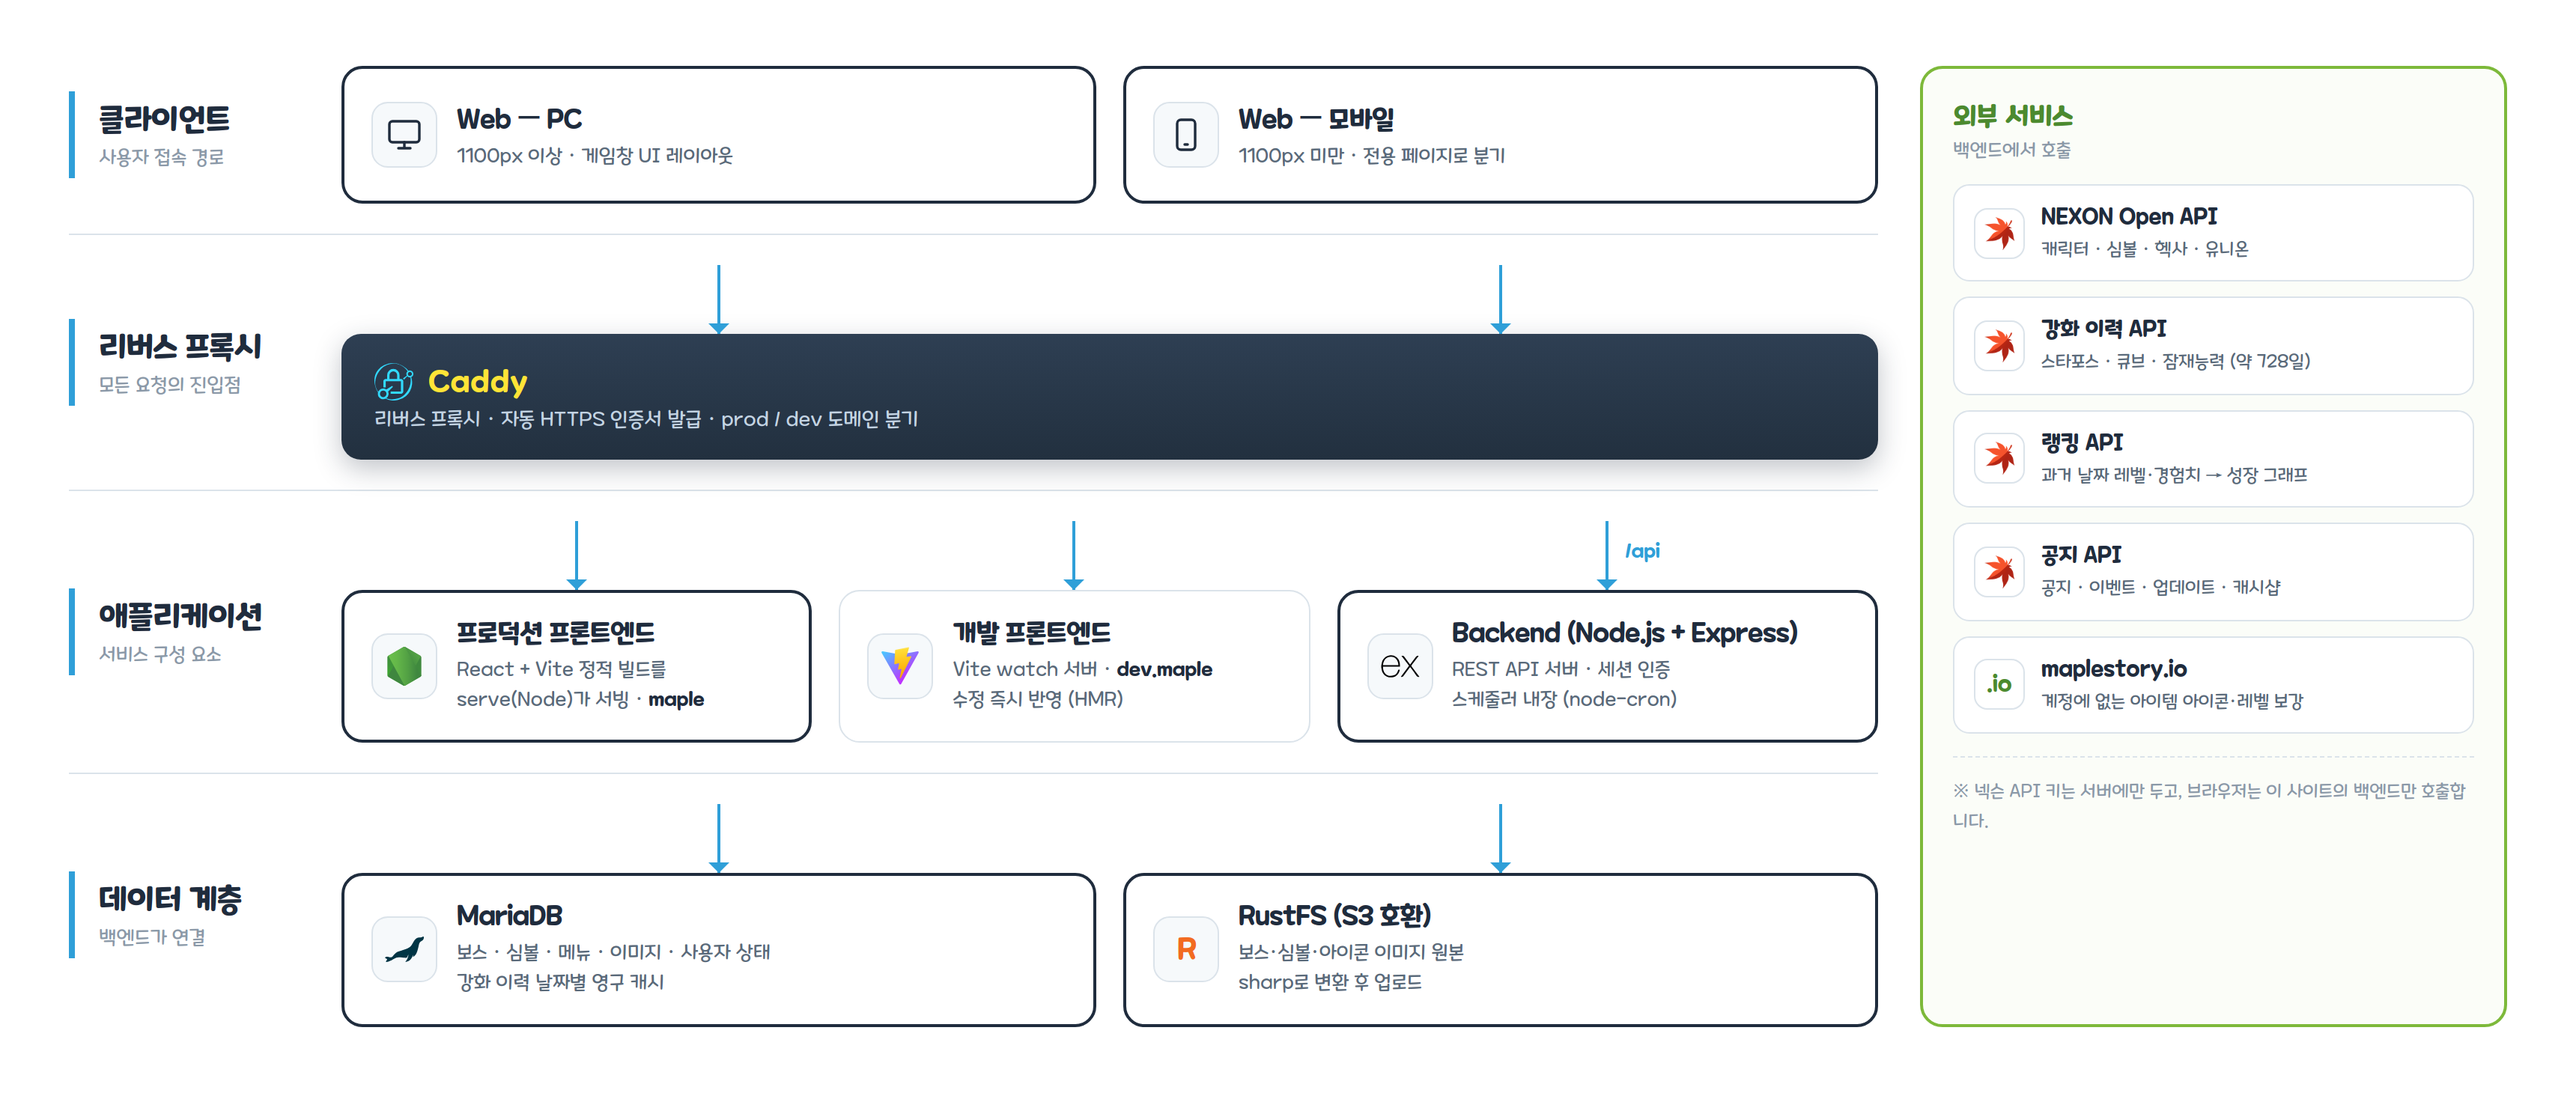
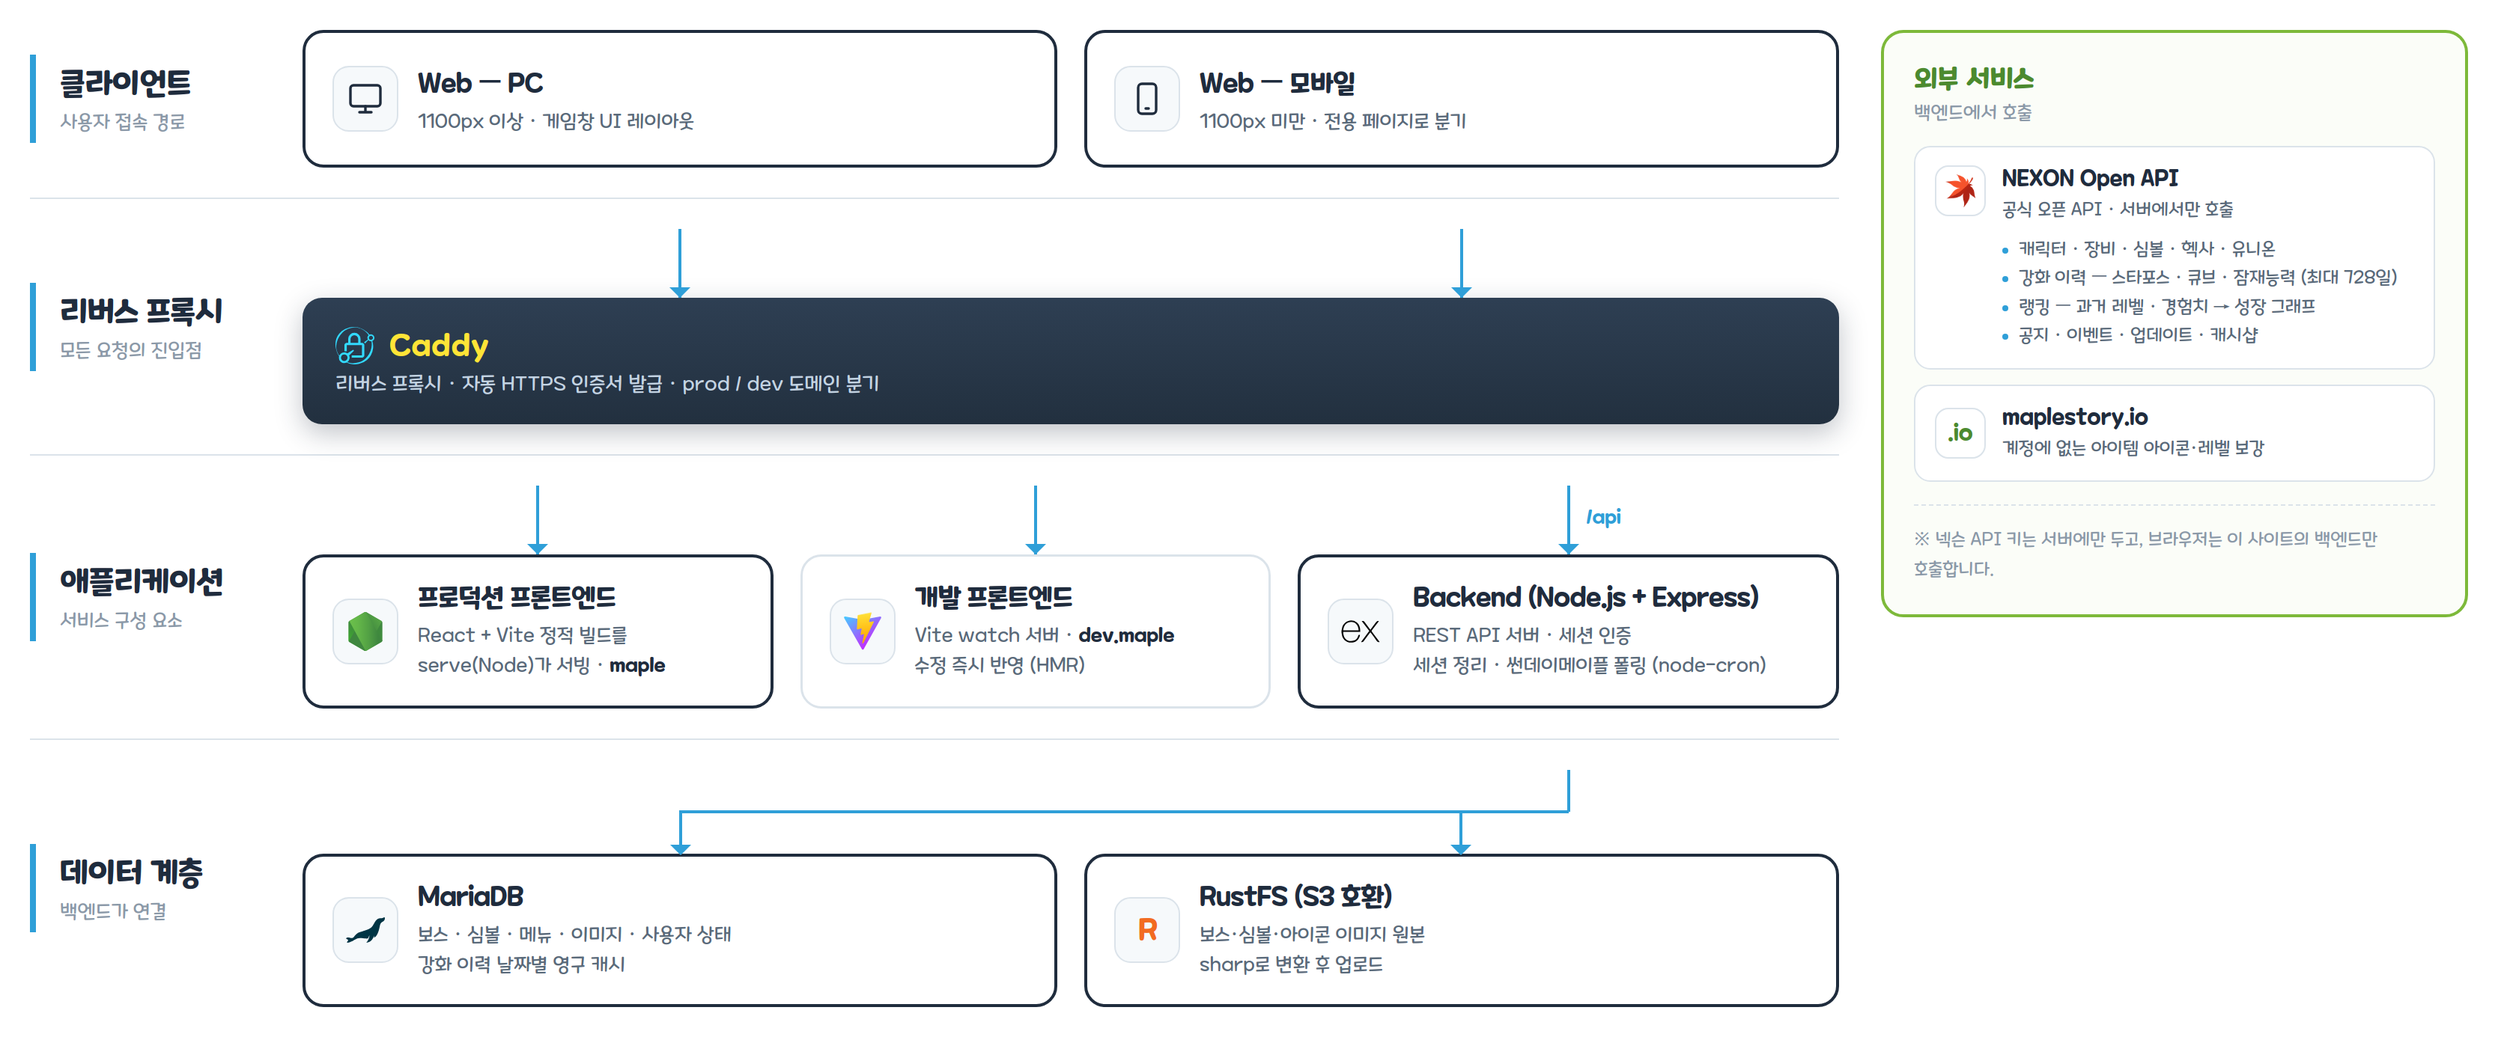
docs: 시스템 구조도 수정 — 잘못된 연결선·중복 API 정리
- 데이터 계층 화살표가 프론트엔드 열에서 내려와 잘못된 연결로 보이던 문제
  → 백엔드에서 분기하는 버스 형태로 교체 (실제 연결과 일치)
- 강화이력·랭킹·공지는 모두 NEXON Open API의 엔드포인트인데 별개 서비스처럼
  4개 박스로 나열되던 것 → 1개 박스에 엔드포인트 목록으로 통합
- 백엔드 설명을 실제 스케줄러 작업(세션 정리·썬데이메이플 폴링)으로 구체화
- 한국어 어절 단위 줄바꿈(word-break:keep-all) — '호출합/니다' 깨짐 해결
- 외부 서비스 패널이 억지로 늘어나 하단이 비던 문제 → 내용 높이에 맞춤

Claude-Session: https://claude.ai/code/session_011K1GDZufi9XzbNZSQFJ7js

diff --git a/docs/images/architecture.html b/docs/images/architecture.html
@@ -26,7 +26,7 @@ body{
 }
 
 /* ── 본체 + 외부 서비스 2단 ── */
-.wrap{display:flex;gap:28px;align-items:stretch}
+.wrap{display:flex;gap:28px;align-items:flex-start}
 .main{flex:1;min-width:0}
 .side{width:392px;flex:none}
 
@@ -46,7 +46,7 @@ body{
 .ic img{width:26px;height:26px;object-fit:contain}
 .ic .mark{font-size:20px;font-weight:700;letter-spacing:-1px}
 .n{font-size:17.5px;font-weight:700;letter-spacing:-.3px}
-.d{font-size:13px;color:var(--muted);margin-top:4px;line-height:1.55}
+.d{font-size:13px;color:var(--muted);margin-top:4px;line-height:1.55;word-break:keep-all}
 .d b{color:var(--ink);font-weight:700}
 
 /* ── 화살표 (아래 줄과 같은 그리드에 얹어 열을 맞춘다) ── */
@@ -63,19 +63,33 @@ body{
 .proxy .pn{color:var(--yellow);font-size:20px;font-weight:700;letter-spacing:.6px}
 .proxy .pd{color:#c3d3e2;font-size:13.5px;margin-top:5px}
 
+/* ── 데이터 계층 버스: 백엔드 열(82.4%)에서 내려와 두 저장소로 분기 ── */
+.bus{position:relative;height:56px}
+.bus-stub{position:absolute;left:82.4%;top:0;width:2px;height:28px;
+  background:var(--accent);transform:translateX(-50%)}
+.bus-line{position:absolute;left:24.6%;right:17.6%;top:27px;height:2px;background:var(--accent)}
+.bus-drop{position:absolute;top:27px;width:2px;height:29px;background:var(--accent);
+  transform:translateX(-50%)}
+.bus-drop::after{content:'';position:absolute;left:50%;bottom:-1px;transform:translateX(-50%);
+  border:7px solid transparent;border-top-color:var(--accent);border-bottom:0}
+
 /* ── 외부 서비스 ── */
-.ext{border:2px solid var(--lime-to);border-radius:15px;padding:20px;background:#fbfdf8;height:100%}
+.ext{border:2px solid var(--lime-to);border-radius:15px;padding:20px;background:#fbfdf8}
 .ext-h{font-size:18px;font-weight:700;color:#4c8a2f}
 .ext-s{font-size:12.5px;color:var(--dim);margin:4px 0 15px}
 .xi{background:#fff;border:1px solid var(--line);border-radius:11px;padding:12px 13px;
   display:flex;gap:11px;align-items:center}
 .xi + .xi{margin-top:10px}
 .xi .xn{font-size:14.5px;font-weight:700}
-.xi .xd{font-size:12px;color:var(--muted);margin-top:3px;line-height:1.45}
+.xi .xd{font-size:12px;color:var(--muted);margin-top:3px;line-height:1.45;word-break:keep-all}
 .xic{width:34px;height:34px;border-radius:9px;flex:none;display:flex;align-items:center;
   justify-content:center;background:#fff;border:1px solid var(--line)}
 .xic img{width:22px;height:22px;object-fit:contain}
-.note{font-size:12px;color:var(--dim);margin-top:15px;line-height:1.65;
+.ep{list-style:none;margin:8px 0 0;padding:0}
+.ep li{font-size:12px;color:var(--muted);line-height:1.6;padding-left:11px;position:relative;word-break:keep-all}
+.ep li::before{content:'';position:absolute;left:0;top:8px;width:4px;height:4px;border-radius:50%;
+  background:var(--accent)}
+.note{font-size:12px;color:var(--dim);margin-top:15px;line-height:1.65;word-break:keep-all;
   padding-top:13px;border-top:1px dashed var(--line)}
 
 </style>
@@ -134,7 +148,7 @@ body{
           </div>
           <div class="box">
[1 lines of base64/hex data omitted]
-            <div><div class="n">Backend (Node.js + Express)</div><div class="d">REST API 서버 · 세션 인증<br>스케줄러 내장 (node-cron)</div></div>
+            <div><div class="n">Backend (Node.js + Express)</div><div class="d">REST API 서버 · 세션 인증<br>세션 정리 · 썬데이메이플 폴링 (node-cron)</div></div>
           </div>
         </div>
       </div>
@@ -146,7 +160,12 @@ body{
     <div class="lane">
       <div class="lane-label"><div class="t">데이터 계층</div><div class="s">백엔드가 연결</div></div>
       <div>
-        <div class="arrows" style="grid-template-columns:1fr 1fr"><div class="a"></div><div class="a"></div></div>
+        <div class="bus">
+          <div class="bus-stub"></div>
+          <div class="bus-line"></div>
+          <div class="bus-drop" style="left:24.6%"></div>
+          <div class="bus-drop" style="left:75.4%"></div>
+        </div>
         <div class="grid" style="grid-template-columns:1fr 1fr">
           <div class="box">
[1 lines of base64/hex data omitted]
@@ -167,21 +186,18 @@ body{
     <div class="ext">
       <div class="ext-h">외부 서비스</div>
       <div class="ext-s">백엔드에서 호출</div>
-      <div class="xi">
+      <div class="xi" style="align-items:flex-start">
[1 lines of base64/hex data omitted]
-        <div><div class="xn">NEXON Open API</div><div class="xd">캐릭터 · 심볼 · 헥사 · 유니온</div></div>
-      </div>
-      <div class="xi">
[1 lines of base64/hex data omitted]
-        <div><div class="xn">강화 이력 API</div><div class="xd">스타포스 · 큐브 · 잠재능력 (약 728일)</div></div>
-      </div>
-      <div class="xi">
[1 lines of base64/hex data omitted]
-        <div><div class="xn">랭킹 API</div><div class="xd">과거 날짜 레벨·경험치 → 성장 그래프</div></div>
-      </div>
-      <div class="xi">
[1 lines of base64/hex data omitted]
-        <div><div class="xn">공지 API</div><div class="xd">공지 · 이벤트 · 업데이트 · 캐시샵</div></div>
+        <div>
+          <div class="xn">NEXON Open API</div>
+          <div class="xd">공식 오픈 API · 서버에서만 호출</div>
+          <ul class="ep">
+            <li>캐릭터 · 장비 · 심볼 · 헥사 · 유니온</li>
+            <li>강화 이력 — 스타포스 · 큐브 · 잠재능력 (최대 728일)</li>
+            <li>랭킹 — 과거 레벨 · 경험치 → 성장 그래프</li>
+            <li>공지 · 이벤트 · 업데이트 · 캐시샵</li>
+          </ul>
+        </div>
       </div>
       <div class="xi">
         <div class="xic"><span style="font-size:15px;font-weight:700;color:#4c8a2f">.io</span></div>
